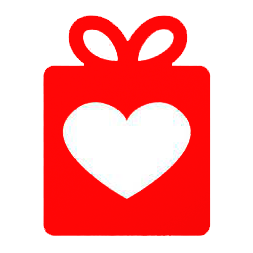
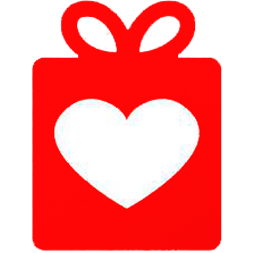
test

Changed region(s): [[0.1107, 0.0, 0.8854, 0.996]]

diff --git a/components/Desktop/Misc/socialBar.tsx b/components/Desktop/Misc/socialBar.tsx
@@ -29,7 +29,7 @@ export default function SocialBar() {
             circleClass12: style.circleClass12
         })
     let [bellIcon, setBellIcon] = useState({
-        bellIcon: GlobalConst.sourceImages.noActivateBell,
+        bellIcon: GlobalConst.sourceImages.noActiveWishList,
         animationBell: ""
     })
 
@@ -84,14 +84,14 @@ export default function SocialBar() {
         if (isLike) {
             setBellIcon({
                 ...bellIcon,
-                bellIcon: GlobalConst.sourceImages.activateBell,
+                bellIcon: GlobalConst.sourceImages.activeWishList,
                 animationBell: style.animationBell
             })
             setInitialBell(initialBell += 1)
         } else {
             setBellIcon({
                 ...bellIcon,
-                bellIcon: GlobalConst.sourceImages.noActivateBell,
+                bellIcon: GlobalConst.sourceImages.noActiveWishList,
                 animationBell: style.animationDislike
             })
             setInitialBell(initialBell -= 1)

diff --git a/public/globalConst.tsx b/public/globalConst.tsx
@@ -120,7 +120,9 @@ export namespace GlobalConst{
         instagramICon: "/images/instagram.png",
         tiktokIcon: "/images/tiktok.png",
         facebookIcon: "/images/facebook.png",
-        whatsaapIcon: "/images/whatssap.png"
+        whatsaapIcon: "/images/whatssap.png",
+        activeWishList: "/images/wishList.png",
+        noActiveWishList: "/images/wishListDisable.png"
     }
 }
 

diff --git a/pages/_app.tsx b/pages/_app.tsx
@@ -1,5 +1,9 @@
 import "/styles/globals.css"
+
 function MyApp({Component, pageProps}) {
-    return <Component {...pageProps} />
+    return (
+        <Component {...pageProps} />
+    )
 }
+
 export default MyApp

diff --git a/styles/Mobile/Misc/socialBar.module.css b/styles/Mobile/Misc/socialBar.module.css
@@ -12,7 +12,7 @@
 
 .sizeIconB{
     height: 20px;
-    width: 20px;
+    width: 22px;
     position: relative;
 }
 
